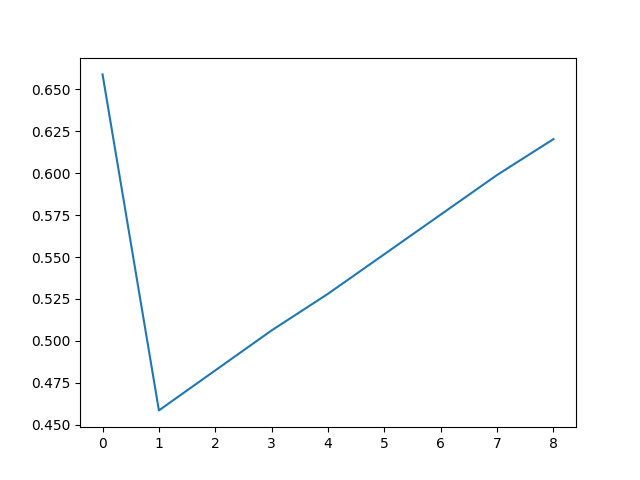
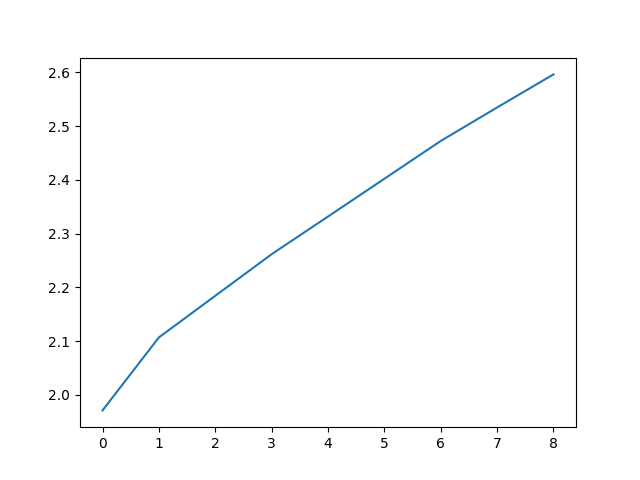
experiments

diff --git a/PythonCode/Ngram/main.py b/PythonCode/Ngram/main.py
@@ -44,9 +44,9 @@ def correlation_information(n_gram_counts, probability_matrix, probability_matri
     return (correlation)
 
 
-def plot(sentences):
+def plot(sentences, unique_words):
     k = 1
-    unique_words = list(set(sum(sentences, [])))
+    #unique_words = list(set(sum(sentences, [])))
     averages = []
     correlations = []
     effective_measure_complexity = 0
@@ -90,16 +90,57 @@ def local_info_patterns(sentences, unique_words, sentence, n):
     probability_matrix = make_probability_matrix(n_plus1_gram_counts, unique_words, k)
 
     sentence = ['<s>']*n + sentence + ['<e>']
-    print(sentence)
+    print("sentences:", sentence)
     for i in range(n+1, len(sentence)):
-        conf = sentence[i]
+        conf = sentence[i-1]
         locality = sentence[i-n-1:i-1]
-        print(tuple(locality))
-        prob = probability_matrix.loc[[tuple(locality)]][conf][0]
+        print(tuple(locality), conf)
+        if tuple(locality) in probability_matrix.index:
+            prob = probability_matrix.loc[[tuple(locality)]][conf][0]
+        else:
+            prob = k
         local_information = np.log(1/prob)
         patterns.append(local_information)
+    print(patterns)
     plt.plot(patterns)
+    plt.grid()
+    plt.xlabel("string position")
     plt.savefig('patterns')
+    plt.close()
+
+
+def experiment(sentences, unique_words, sentence):
+    patterns = []
+
+    k = 0.01
+    previous_n_gram_length = 1
+    n = previous_n_gram_length
+
+    sentence = ['<s>']*n + sentence + ['<e>']
+    suffix = ()
+    while n < 10:
+        n_plus1_gram_counts = count_n_grams(sentences, n+1)
+        probability_matrix = make_probability_matrix(n_plus1_gram_counts, unique_words, k)
+
+        max_idx = 0
+        maxi = probability_matrix.loc[[probability_matrix.index[max_idx]]][('a')][0]
+        for i, idx in enumerate(probability_matrix.index):
+            cur_max = probability_matrix.loc[[tuple(idx)]][('a')][0]
+            print(idx[-len(suffix):], "vs", suffix)
+            if cur_max >= maxi and idx[-len(suffix):] == suffix:
+                maxi = cur_max
+                max_idx = i
+
+        suffix = probability_matrix.index[max_idx]
+        print(probability_matrix.index[max_idx], ('a'))
+        patterns.append(probability_matrix.loc[[probability_matrix.index[max_idx]]][('a')][0])
+        n += 1
+
+    print(patterns)
+    plt.plot(patterns)
+    plt.grid()
+    plt.xlabel("string position")
+    plt.savefig('patterns inverse')
     plt.close()
 
 
@@ -113,19 +154,26 @@ def main():
                 txt = f.read()
                 #txt = txt[10000:15000]
     """
+
     k = 0.01
-    previous_n_gram_length = 2
+    previous_n_gram_length = 1
 
-    txt1 = ['a', 'b', 'a', 'b', 'a', 'b', 'a', 'b', 'a', 'b', 'a', 'b', 'a', 'b', 'a', 'b', 'a', 'b', 'a', 'b', 'a', 'b']
-    txt2 = ['a', 'b', 'a', 'b', 'a', 'b', 'a', 'b', 'a', 'b', 'a', 'b', 'a', 'b', 'a', 'b', 'a', 'b', 'a', 'b', 'a', 'b']
-    txt3 = ['a', 'b', 'a', 'b', 'a', 'b', 'a', 'b', 'a', 'b', 'a', 'b', 'a', 'b', 'a', 'b', 'a', 'b', 'a', 'b', 'a', 'b']
-    txt4 = ['a', 'b', 'a', 'b', 'a', 'b', 'a', 'b', 'a', 'b', 'a', 'b', 'a', 'b', 'a', 'b', 'a', 'b', 'a', 'b', 'a', 'b']
-    txt5 = ['a', 'b', 'a', 'b', 'a', 'b', 'a', 'b', 'a', 'b', 'c', 'b', 'a', 'b', 'a', 'c', 'a', 'b', 'a', 'b', 'a', 'b']
-    sentences = [txt1, txt2, txt3, txt4, txt5] #[txt[0:100], txt[100:200], txt[200:300], txt[300:400], txt[400:500]] # [['a', 'b', 'a', 'c', 'a', 'd', 'a', 'f', 'a', 'g', 'a', 'h', 'a', 'i', 'a', 'j', 'a', 'k', 'a', 'l', 'a', 'm', 'a', 'n', 'a', 'o'], ['a', 'b', 'c', 'd', 'e', 'a', 'b', 'c', 'd', 'e', 'a', 'b', 'c', 'd', 'e', 'a', 'b', 'c', 'd', 'e', 'a', 'b', 'c', 'd', 'e', 'a', 'b', 'c', 'd', 'e', 'a', 'b', 'c', 'd', 'e'], ['a', 'b', 'c', 'd', 'e', 'f', 'g', 'h', 'i', 'j', 'k', 'l', 'm', 'n', 'o', 'p', 'q', 'r', 's', 't',' u', 'v', 'w', 'x', 'y', 'z'], ['e', 's', 't', 'e', 'b', 'a', 'n', 'h', 'e', 'r', 'n', 'a', 'n', 'd', 'e', 'z', 'e', 's', 't', 'e', 'b', 'a', 'n', 'h', 'e', 'r', 'n', 'a', 'n', 'd', 'e', 'z'], ['a', 'b', 'c', 'a', 'b', 'c', 'a', 'b', 'c', 'a', 'b', 'c', 'a', 'b', 'c', 'a', 'b', 'c', 'a', 'b', 'c', 'a', 'b', 'c', 'a', 'b', 'c', 'a', 'b', 'c', 'a', 'b', 'c']]
     unique_words = ['a', 'b', 'c', 'd', 'e', 'f', 'g', 'h', 'i',' j', 'k', 'l', 'm', 'o', 'p', 'q', 'r', 's', 't', 'u', 'v', 'w', 'x', 'y', 'z'] # list(set(sum(sentences, [])))
-    #plot(sentences)
 
+    # TRAINNING SET
+    txt1 = ['a', 'a', 'b']*1000
+    txt2 = ['a', 'a', 'a']*1000
+    txt3 = ['a', 'b', 'b']*1000
+    txt4 = ['b', 'b', 'a']*1000
+    txt5 = ['b', 'b', 'a']*1000
+    txt6 = ['b', 'a', 'b']*1000
+    txt7 = ['b', 'a', 'a']*1000
+    txt8 = ['b', 'b', 'b']*1000
+    txt9 = ['a', 'a', 'a']*1000
+    txt = ['a', 'a', 'b', 'a', 'a', 'b', 'a', 'a', 'b', 'a', 'a', 'b', 'a', 'a', 'b', 'a', 'a', 'b', 'a', 'a', 'b']
+    sentences = [txt1, txt2, txt3, txt4, txt5, txt6, txt7, txt8, txt9]
 
+    # PROBABILITY MODELS
     n_minus1_gram_counts = count_n_grams(sentences, previous_n_gram_length-1)
     n_gram_counts = count_n_grams(sentences, previous_n_gram_length)
     n_plus1_gram_counts = count_n_grams(sentences, previous_n_gram_length+1)
@@ -145,7 +193,11 @@ def main():
     correlation = correlation_information(n_gram_counts, probability_matrix, probability_matrix_minus1)
     print(correlation)
 
-    local_info_patterns(sentences, unique_words, txt5, 2)
+    local_info_patterns(sentences, unique_words, txt, previous_n_gram_length)
+
+    experiment(sentences, unique_words, txt)
+
+    #plot(sentences, unique_words)
 
 
 main()
